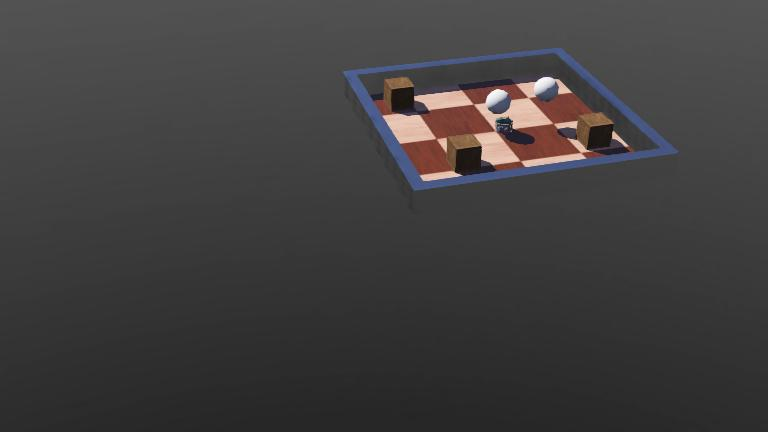
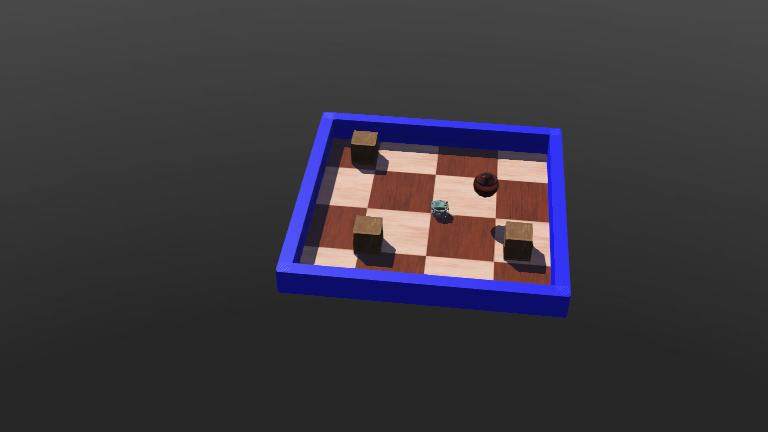
added a collision avoidance algorithm

Changed region(s): [[0.3438, 0.0903, 0.9062, 0.7523]]

diff --git a/controllers/EPuckAvoidCollision/EPuckAvoidCollision.cpp b/controllers/EPuckAvoidCollision/EPuckAvoidCollision.cpp
@@ -1,0 +1,115 @@
+// File:          EPuckAvoidCollision.cpp
+// Date:
+// Description:
+// Author:
+// Modifications:
+
+// You may need to add webots include files such as
+// <webots/DistanceSensor.hpp>, <webots/Motor.hpp>, etc.
+// and/or to add some other includes
+#include <webots/Robot.hpp>
+
+// including sensors lib to use the directional sensors on robot
+#include <webots/DistanceSensor.hpp>
+
+// including lib for controlling motor
+#include <webots/Motor.hpp>
+
+// defining total time (ms) for a simulation step
+// must be multiple of WorldInfo.basicTimeStep
+#define TIME_STEP 64
+
+// defining max speed
+#define MAX_SPEED 6.28
+
+// All the webots classes are defined in the "webots" namespace
+using namespace webots;
+
+// This is the main program of your controller.
+// It creates an instance of your Robot instance, launches its
+// function(s) and destroys it at the end of the execution.
+// Note that only one instance of Robot should be created in
+// a controller program.
+// The arguments of the main function can be specified by the
+// "controllerArgs" field of the Robot node
+int main(int argc, char **argv)
+{
+  // create the Robot instance.
+  Robot *robot = new Robot();
+
+  // initialize devices
+
+  //  8 distance sensors
+  DistanceSensor *ps[8];
+
+  // each string ending with a null terminating char
+  // 4 chars of each string
+  char psNames[8][4] = {
+      "ps0", "ps1", "ps2", "ps3",
+      "ps4", "ps5", "ps6", "ps7"};
+
+  // loop to initialize devices
+  for (int i = 0; i < 8; i++)
+  {
+    // link a robot distance sensor to the distance sensor controller
+    ps[i] = robot->getDistanceSensor(psNames[i]);
+
+    // enabling the robots distance sensor and refreshing it after every TIME_STEP
+    ps[i]->enable(TIME_STEP);
+  }
+
+  // initialize motors
+
+  // pointing the motor object controller to robot's motor
+  Motor *leftMotor = robot->getMotor("left wheel motor");
+  Motor *rightMotor = robot->getMotor("right wheel motor");
+
+  // setting the velocity controlled robot params
+  leftMotor->setPosition(INFINITY);
+  leftMotor->setVelocity(0.0);
+  rightMotor->setPosition(INFINITY);
+  rightMotor->setVelocity(0.0);
+
+  // sensor outputs
+  double psValues[8];
+  // Main loop:
+  // - perform simulation steps until Webots is stopping the controller
+  while (robot->step(TIME_STEP) != -1)
+  {
+    // reading sensor outputs
+    for (int i = 0; i < 8; i++)
+    {
+      psValues[i] = ps[i]->getValue();
+    }
+
+    // detect obstacles
+    bool right_obstacle = psValues[0] > 80.0 ||
+                          psValues[1] > 80.0 || psValues[2] > 80.0;
+    bool left_obstacle = psValues[5] > 80.0 ||
+                         psValues[6] > 80.0 || psValues[7] > 80.0;
+
+    // initializing motor at 50% of max speed
+    double leftSpeed = 0.5 * MAX_SPEED;
+    double rightSpeed = 0.5 * MAX_SPEED;
+
+    if (left_obstacle)
+    {
+      // turn right
+      leftSpeed = 0.5 * MAX_SPEED;
+      rightSpeed = -0.5 * MAX_SPEED;
+    }
+    else if (right_obstacle)
+    {
+      // turn left
+      leftSpeed = -0.5 * MAX_SPEED;
+      rightSpeed = 0.5 * MAX_SPEED;
+    }
+
+    // write actuator inputs
+    leftMotor->setVelocity(leftSpeed);
+    rightMotor->setVelocity(rightSpeed);
+  }
+
+  delete robot;
+  return 0;
+}
